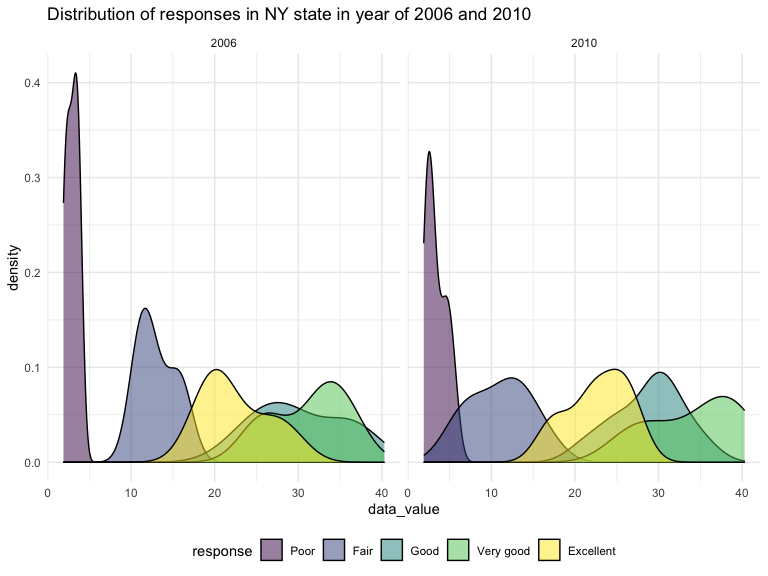
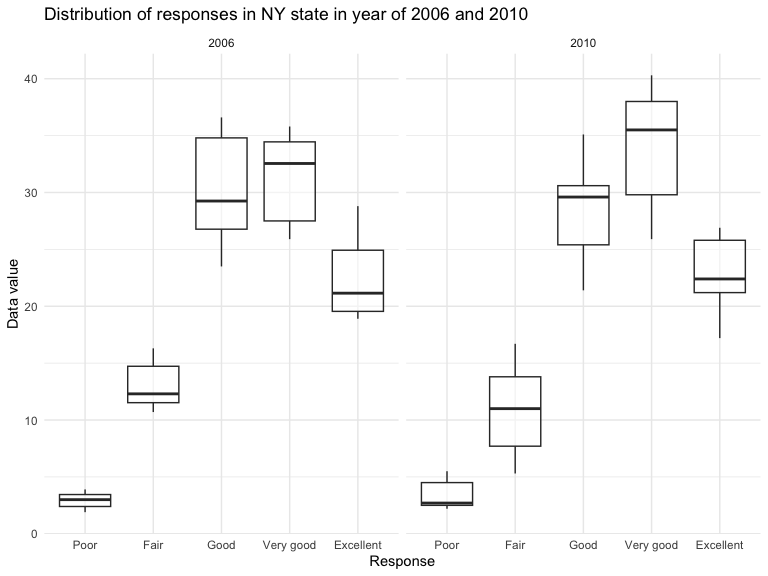
Change from density plot to boxplot

diff --git a/p8105_hw3_jw4348.md b/p8105_hw3_jw4348.md
@@ -192,16 +192,20 @@ brfss_ny_df = brfss_df |>
   filter (states == "NY",
           year == 2006 | year == 2010)
 
-ggplot(brfss_ny_df, aes(x=data_value, fill=response)) +
-  geom_density(alpha = 0.5) +
-  labs(title = "Distribution of responses in NY state in year of 2006 and 2010") +
+ggplot(brfss_ny_df, aes(x=response, y=data_value)) +
+  geom_boxplot(alpha = 0.5) +
+  labs(
+    title = "Distribution of responses in NY state in year of 2006 and 2010",
+    x = "Response",
+    y = "Data value"
+    ) +
   facet_grid (.~year)
 ```
 
 <img src="p8105_hw3_jw4348_files/figure-gfm/unnamed-chunk-8-1.png" width="90%" />
 
-- This two panel plot showed distribution of value for all responses in
-  year 2006 and 2010.
+- This two panel boxplot showed distribution of value for all responses
+  in year 2006 and 2010.
   - In **both 2006 and 2010**, people have **least** response of
     **poor** and **second least** response of **fair**. **Most**
     response are **above fair**. And, the **most** response is **very
